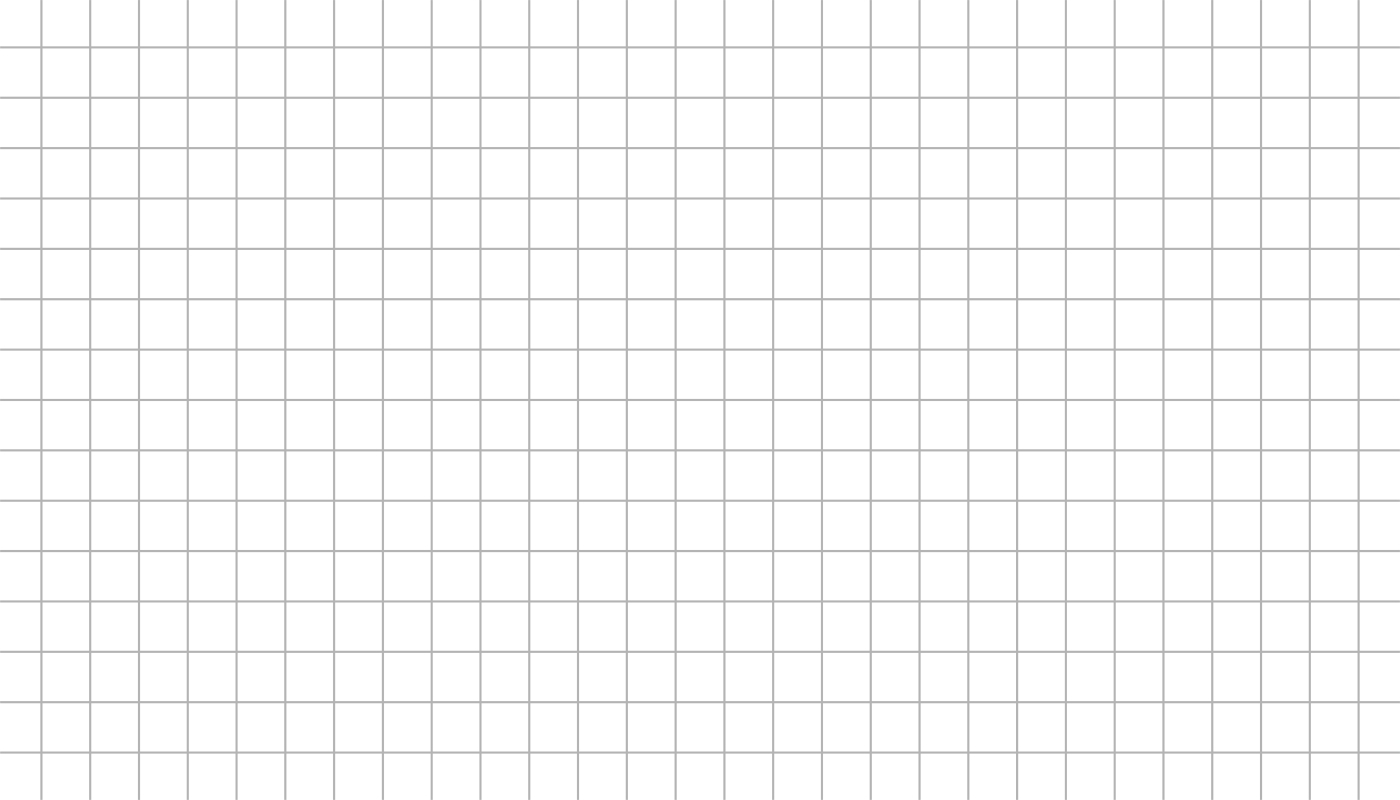
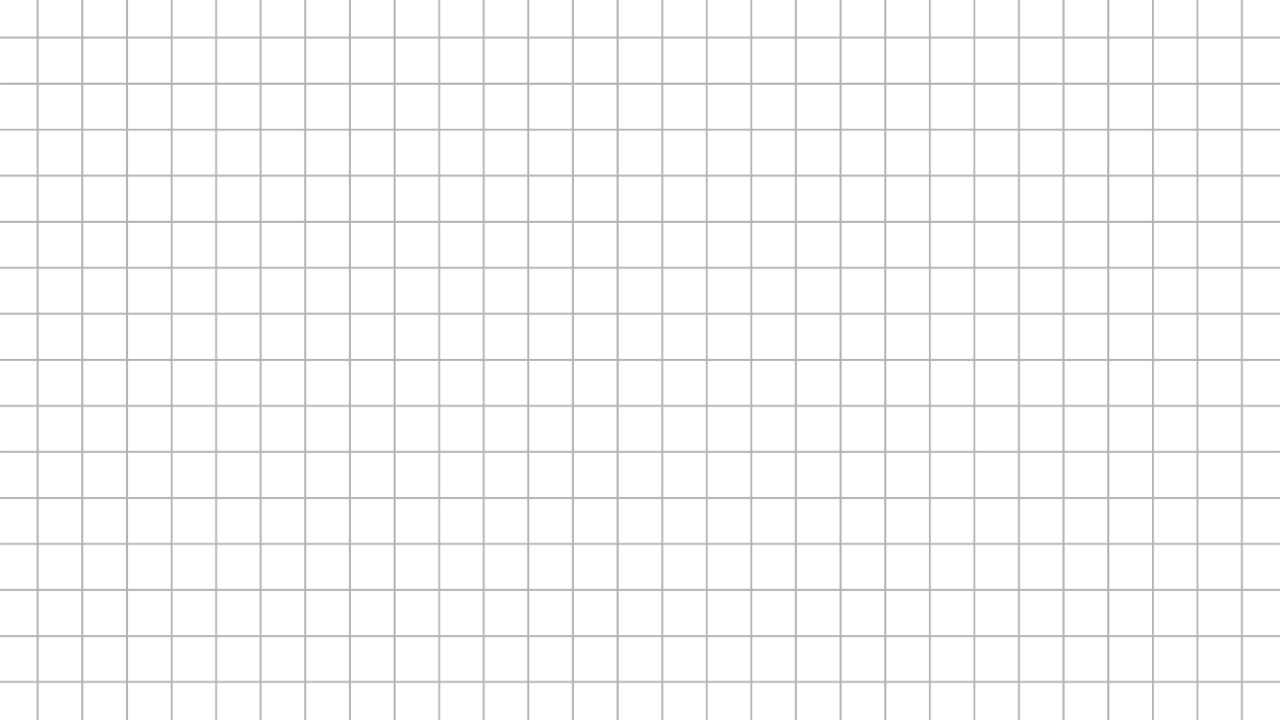
Added animation loading

diff --git a/jirsakry/src/main/java/cz/cvut/fel/pjv/jirsakry/view/GameRenderer.java b/jirsakry/src/main/java/cz/cvut/fel/pjv/jirsakry/view/GameRenderer.java
@@ -5,6 +5,7 @@ import cz.cvut.fel.pjv.jirsakry.model.Player;
 import javafx.scene.canvas.Canvas;
 import javafx.scene.canvas.GraphicsContext;
 import javafx.scene.image.Image;
+import javafx.scene.image.WritableImage;
 
 import java.io.FileInputStream;
 import java.io.FileNotFoundException;
@@ -20,10 +21,20 @@ public class GameRenderer {
     private double backgroundWidth;
     private double backgroundHeight;
 
+    private Image[] idleAnim;
+    private int animTick, animIndex, animSpeed = 35;
+
     public GameRenderer(GameWorld gameWorld) {
         this.gameWorld = gameWorld;
         player= gameWorld.getPlayer();
         images = new EnumMap<>(ImageID.class);
+    }
+
+    public Canvas createCanvas(){
+        backgroundWidth = images.get(ImageID.BACKGROUND).getWidth();
+        backgroundHeight = images.get(ImageID.BACKGROUND).getHeight();
+        Canvas canvas = new Canvas(backgroundWidth, backgroundHeight);
+        return canvas;
     }
 
     public void drawBackground(Canvas canvas) {
@@ -33,15 +44,14 @@ public class GameRenderer {
 
     public void render(Canvas canvas){
         gc = canvas.getGraphicsContext2D();
-        gc.drawImage(images.get(ImageID.CHARACTER), player.getX(), player.getY());
-
+        gc.drawImage(images.get(ImageID.BACKGROUND), 0, 0);
+        updateAnimationTick();
+        gc.drawImage(idleAnim[animIndex], player.getX(), player.getY());
     }
 
-    public Canvas createCanvas(){
-        backgroundWidth = images.get(ImageID.BACKGROUND).getWidth();
-        backgroundHeight = images.get(ImageID.BACKGROUND).getHeight();
-        Canvas canvas = new Canvas(backgroundWidth, backgroundHeight);
-        return canvas;
+    public void clearCanvas(Canvas canvas) {
+        gc = canvas.getGraphicsContext2D();
+        gc.clearRect(0, 0, backgroundWidth, backgroundHeight);
     }
 
     public void loadImages() {
@@ -58,6 +68,18 @@ public class GameRenderer {
         }
     }
 
+    public void loadAnimations(){
+        Image spriteSheet = images.get(ImageID.CHARACTER_IDLE);
+        double frameWidth = spriteSheet.getWidth() / 6;
+        double frameHeight = spriteSheet.getHeight();
+        idleAnim = new Image[6];
+        for (int i = 0; i < idleAnim.length; i++){
+            idleAnim[i] = new WritableImage(spriteSheet.getPixelReader(),
+                    (int) (i * frameWidth), 0,
+                    (int) frameWidth, (int) frameHeight);
+        }
+    }
+
     public double getBackgroundWidth() {
         return backgroundWidth;
     }
@@ -66,8 +88,14 @@ public class GameRenderer {
         return backgroundHeight;
     }
 
-    public void clearCanvas(Canvas canvas) {
-        gc = canvas.getGraphicsContext2D();
-        gc.clearRect(0, 0, backgroundWidth, backgroundHeight);
+    private void updateAnimationTick(){
+        animTick++;
+        if(animTick >= animSpeed){
+            animTick = 0;
+            animIndex++;
+            if(animIndex >= idleAnim.length){
+                animIndex = 0;
+            }
+        }
     }
 }

diff --git a/jirsakry/src/main/java/cz/cvut/fel/pjv/jirsakry/JumpingGame.java b/jirsakry/src/main/java/cz/cvut/fel/pjv/jirsakry/JumpingGame.java
@@ -11,33 +11,49 @@ import javafx.scene.input.KeyEvent;
 import javafx.scene.layout.StackPane;
 import javafx.stage.Stage;
 
-import java.io.FileNotFoundException;
-
 public class JumpingGame extends Application {
     private GameWorld  gameWorld;
     private Controller controller;
     private GameRenderer gameRenderer;
 
     @Override
-    public void start(Stage stage) throws FileNotFoundException {
+    public void start(Stage stage){
         gameWorld = new GameWorld();
-        Controller controller = new Controller(gameWorld);
+        controller = new Controller(gameWorld);
         gameRenderer = new GameRenderer(gameWorld);
         gameRenderer.loadImages();
         Canvas canvas = gameRenderer.createCanvas();
-        gameRenderer.drawBackground(canvas);
-
+        gameRenderer.loadAnimations();
 
         AnimationTimer timer = new AnimationTimer() {
-            private long lastTime = 0;
+            private long lastUpdate = 0;
+            private int frameCount = 0;
+            private long lastFrameTime = 0;
+            private double currentFps = 0;
+
             @Override
             public void handle(long now) {
-                gameRenderer.clearCanvas(canvas); //TODO: Very temporary, i hope
-                if (lastTime++ > 10){
-                    gameWorld.update();
-                    lastTime = 0;
+//                gameRenderer.clearCanvas(canvas); //TODO: Very temporary, i hope...
+                if(lastUpdate == 0){
+                    lastUpdate = now;
+                    return;
                 }
+
+                double deltaTime = (now - lastUpdate) * 0.000_000_000_1;
+                lastUpdate = now;
+
+                frameCount++;
+                if(now - lastFrameTime >= 1_000_000_000){ // every second
+                    currentFps = frameCount;
+                    frameCount = 0;
+                    lastFrameTime = now;
+                    System.out.println("DeltaTime: " + deltaTime);
+                }
+
                 gameRenderer.render(canvas);
+                if(deltaTime > 0.016){ // should corespond to 60 times per second
+                    gameWorld.update();
+                }
             }
         };
         timer.start();

diff --git a/jirsakry/src/main/java/cz/cvut/fel/pjv/jirsakry/model/GameWorld.java b/jirsakry/src/main/java/cz/cvut/fel/pjv/jirsakry/model/GameWorld.java
@@ -4,7 +4,7 @@ import java.util.List;
 
 public class GameWorld {
     private List<Enemy>  enemies;
-    private double playerSpeed = 4;
+    private double playerSpeed = 5;
     private int maxHealth = 2;
 
     private Player player = new Player(20, 500, playerSpeed, 2);

diff --git a/jirsakry/src/main/java/cz/cvut/fel/pjv/jirsakry/view/ImageID.java b/jirsakry/src/main/java/cz/cvut/fel/pjv/jirsakry/view/ImageID.java
@@ -1,7 +1,7 @@
 package cz.cvut.fel.pjv.jirsakry.view;
 
 public enum ImageID {
-    CHARACTER("character.png"),
+    CHARACTER_IDLE("idle.png"),
     BACKGROUND("background.png"),;
 
     private final String fileName;